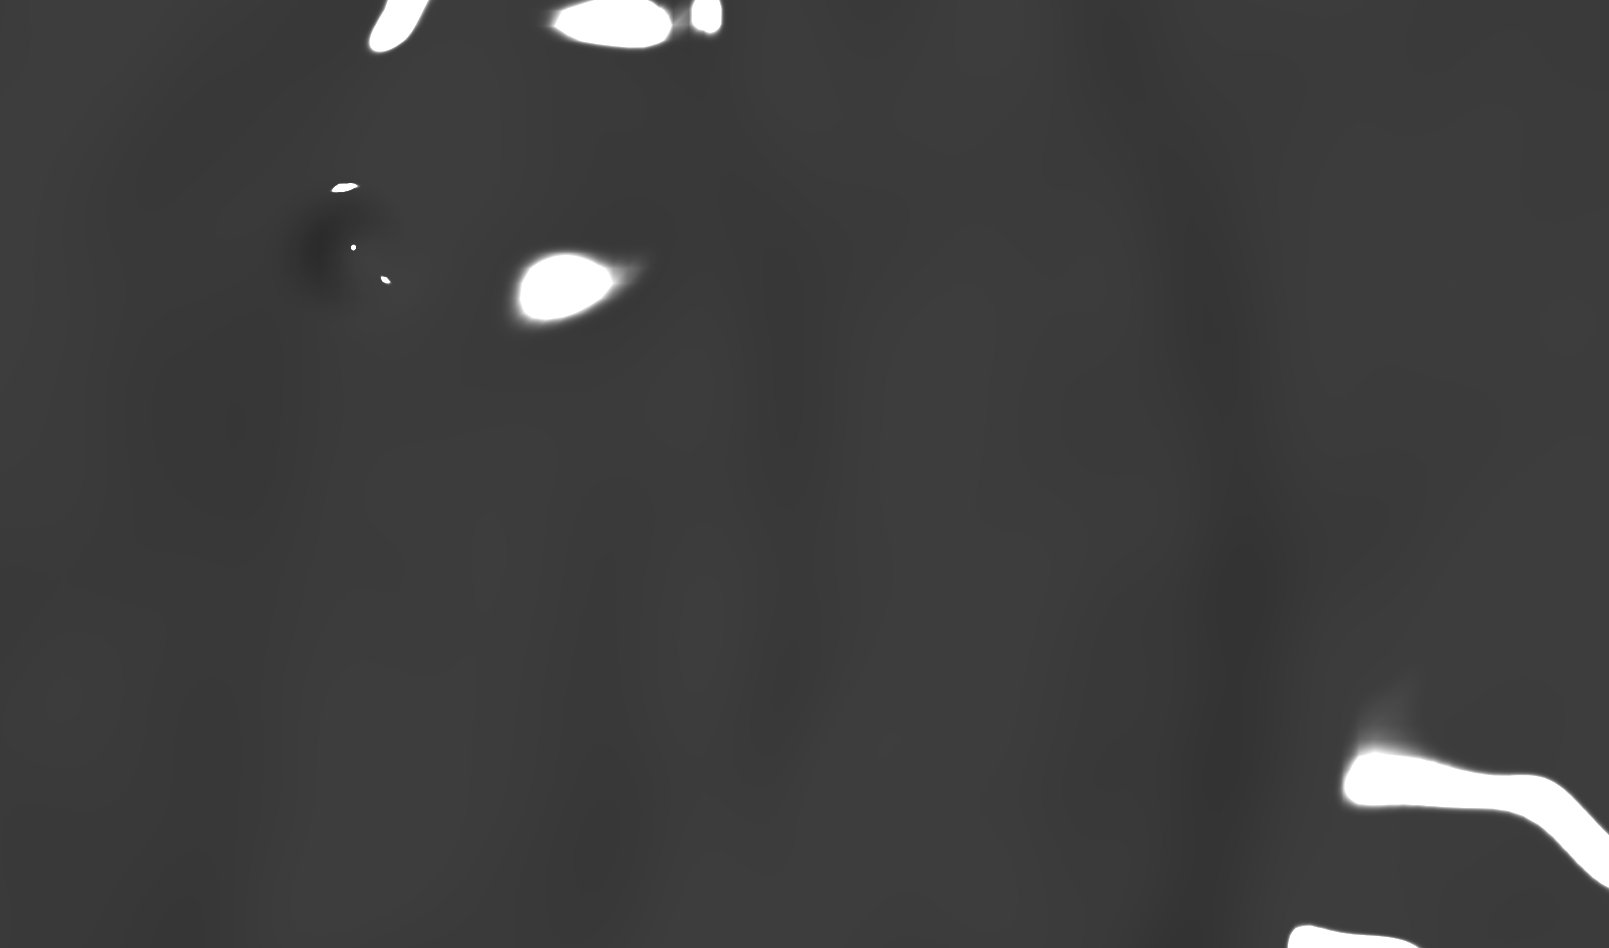
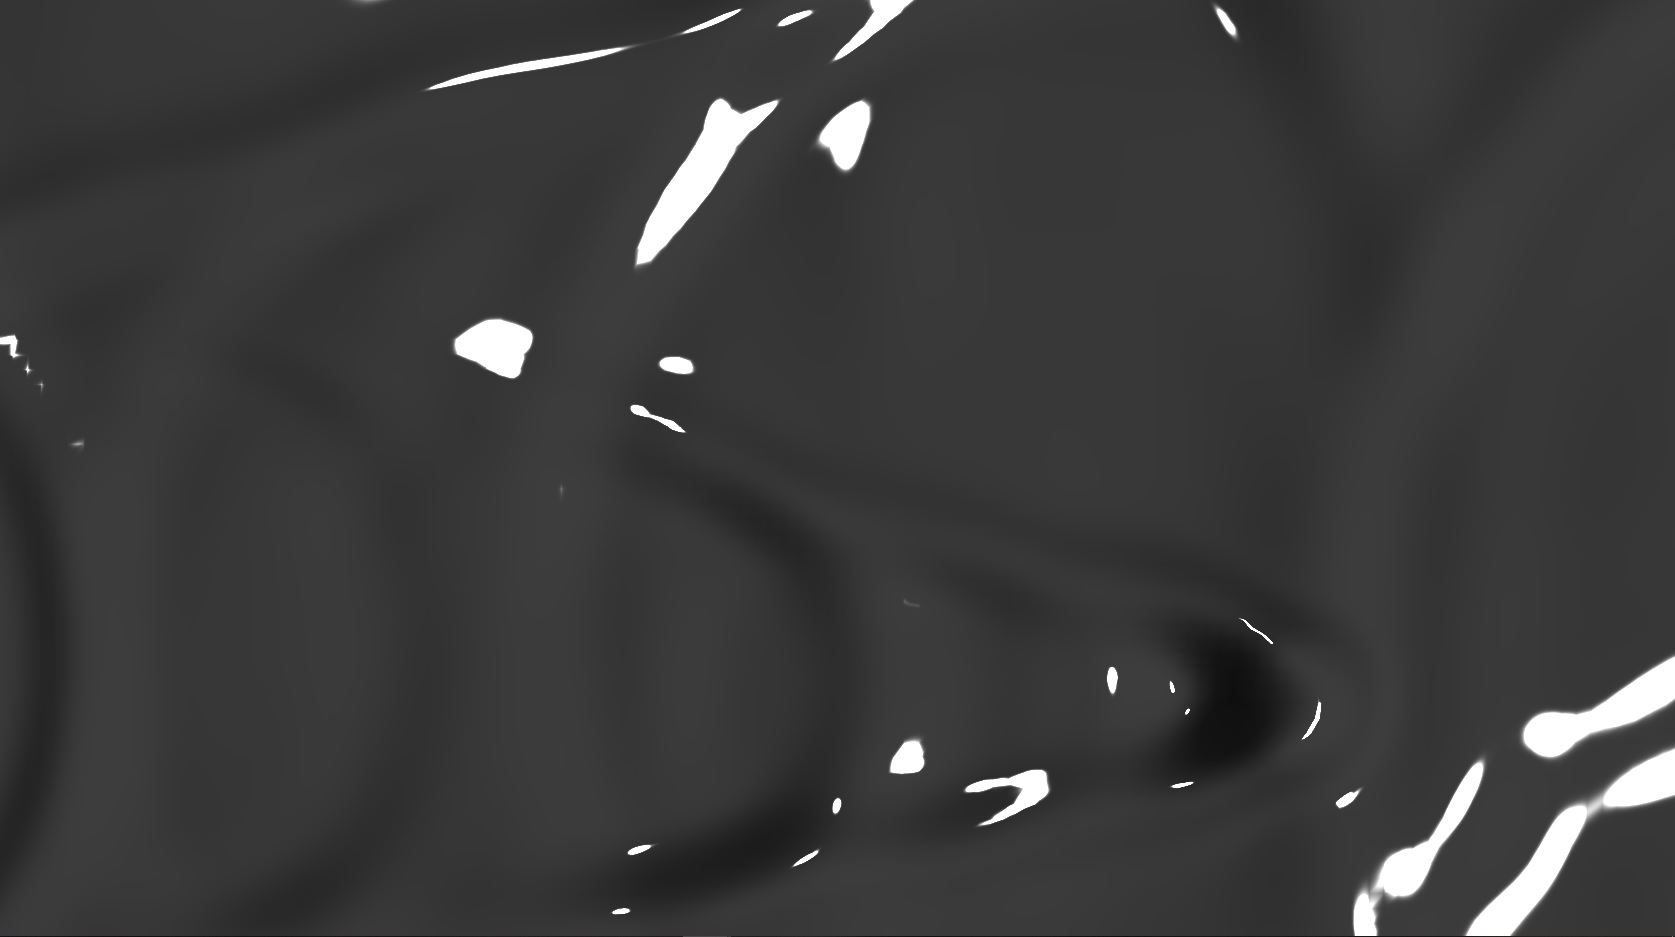
changed background images

diff --git a/css/main.css b/css/main.css
@@ -13,7 +13,7 @@ html{
 }
 
 body {
-    background-image: url("../img/grayscale_background.jpg");
+    
     -webkit-background-size: cover;
     -moz-background-size: cover;
     -o-background-size: cover;
@@ -78,7 +78,7 @@ a:hover{
 
 
 .mainvideo {
-    border: white 7px solid;
+    border: white 5px solid;
     width: 40vw;
 }
 
@@ -129,6 +129,12 @@ a:hover{
     transition: background-color 0.3s ease;
 }
 
+@media screen and (min-width: 768px) {
+    body {
+        background-image: url("../img/grayscale_background.jpg");
+    }
+}
+
 
 @media screen and (max-width: 768px){
     html{
@@ -153,5 +159,7 @@ a:hover{
         height: 75vw;
 
     }
-
+    body {
+        background-image: url("../img/background_mobile_grayscale.png");
+    }
 }
